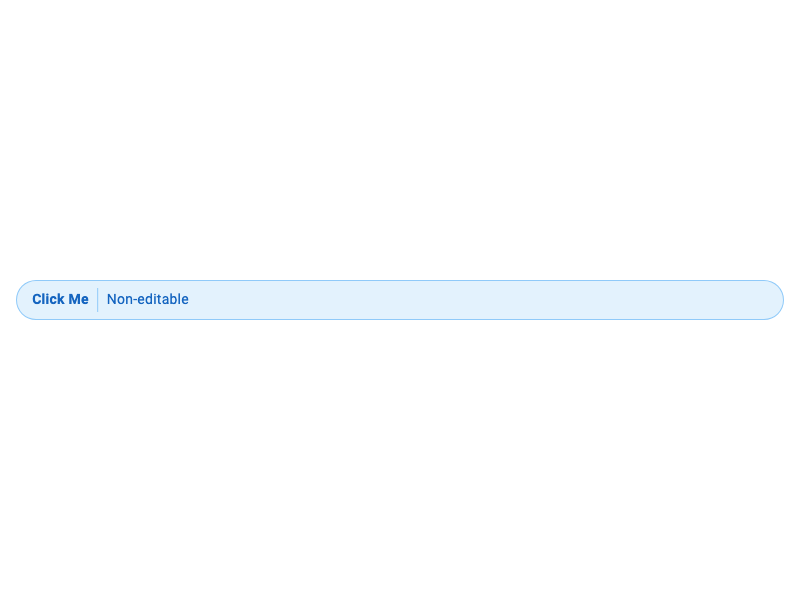
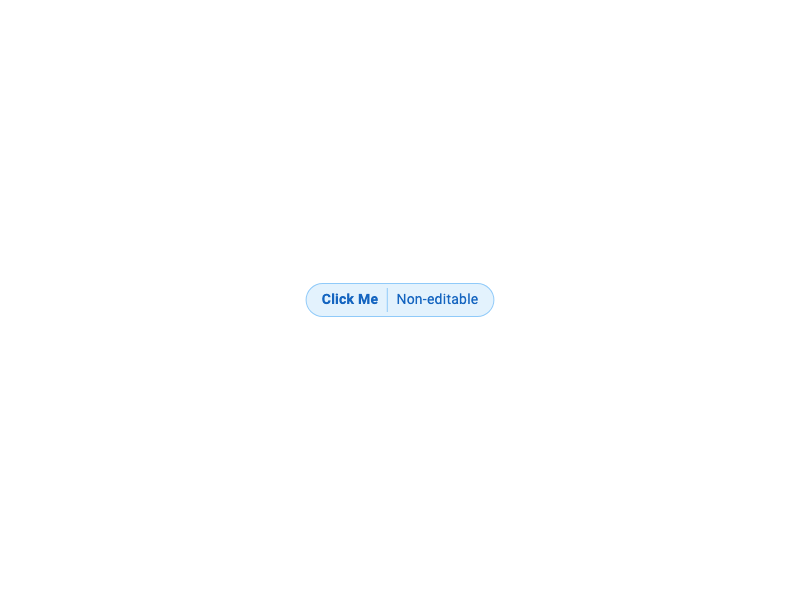
refactor: Make editable pill content-width in both display and edit modes
- Modified `_buildDisplayView` to remove `SizedBox` and `Align`, which were causing the pill to potentially expand unnecessarily. Now it uses `Text` directly inside `Flexible`.
    - Modified `_buildEditingView` to use `LayoutBuilder` and `TextPainter` to calculate the exact width required for the `TextField`, ensuring it is only as wide as its content (plus a cursor buffer).
    - Updated example and README to reflect the content-width behavior.

Changed region(s): [[0.0, 0.45, 1.0, 0.54]]

diff --git a/lib/pill.dart b/lib/pill.dart
@@ -455,17 +455,11 @@ class _PillState extends State<Pill> with SingleTickerProviderStateMixin {
                       style: valueTextStyle,
                       strutStyle: _valueStrutStyle,
                     )
-                  : SizedBox(
-                      height: _valueHeight,
-                      child: Align(
-                        alignment: Alignment.centerLeft,
-                        child: Text(
-                          widget.value!,
-                          style: valueTextStyle,
-                          strutStyle: _valueStrutStyle,
-                          overflow: TextOverflow.ellipsis,
-                        ),
-                      ),
+                  : Text(
+                      widget.value!,
+                      style: valueTextStyle,
+                      strutStyle: _valueStrutStyle,
+                      overflow: TextOverflow.ellipsis,
                     ),
             ),
           ),
@@ -507,32 +501,50 @@ class _PillState extends State<Pill> with SingleTickerProviderStateMixin {
             constraints: const BoxConstraints(minHeight: _valueHeight),
             child: Align(
               alignment: Alignment.centerLeft,
-              child: IntrinsicWidth(
-                child: TextField(
-                  controller: _textController,
-                  focusNode: _focusNode,
-                  autofocus: true,
-                  maxLines: 1,
-                  textAlignVertical: TextAlignVertical.center,
-                  decoration: const InputDecoration(
-                    isDense: true,
-                    isCollapsed: true,
-                    border: InputBorder.none,
-                    contentPadding: EdgeInsets.zero,
-                    constraints: BoxConstraints.tightFor(height: _valueHeight),
-                  ),
-                  style: valueTextStyle,
-                  strutStyle: _valueStrutStyle,
-                  cursorHeight: valueTextStyle.fontSize,
-                  cursorColor: _valueColor,
-                  onSubmitted: (newValue) {
-                    _commitEditingValue();
-                    setState(() {
-                      _isEditing = false;
-                    });
-                    _focusNode.unfocus();
-                  },
-                ),
+              child: LayoutBuilder(
+                builder: (context, constraints) {
+                  final textSpan = TextSpan(
+                    text: _textController.text,
+                    style: valueTextStyle,
+                  );
+                  final textPainter = TextPainter(
+                    text: textSpan,
+                    textDirection: Directionality.of(context),
+                    maxLines: 1,
+                  )..layout(minWidth: 0, maxWidth: constraints.maxWidth);
+
+                  // Add a small buffer for the cursor and to prevent jitter
+                  final textWidth = textPainter.width + 10.0;
+
+                  return SizedBox(
+                    width: textWidth,
+                    child: TextField(
+                      controller: _textController,
+                      focusNode: _focusNode,
+                      autofocus: true,
+                      maxLines: 1,
+                      textAlignVertical: TextAlignVertical.center,
+                      decoration: const InputDecoration(
+                        isDense: true,
+                        isCollapsed: true,
+                        border: InputBorder.none,
+                        contentPadding: EdgeInsets.zero,
+                        constraints: BoxConstraints.tightFor(height: _valueHeight),
+                      ),
+                      style: valueTextStyle,
+                      strutStyle: _valueStrutStyle,
+                      cursorHeight: valueTextStyle.fontSize,
+                      cursorColor: _valueColor,
+                      onSubmitted: (newValue) {
+                        _commitEditingValue();
+                        setState(() {
+                          _isEditing = false;
+                        });
+                        _focusNode.unfocus();
+                      },
+                    ),
+                  );
+                },
               ),
             ),
           ),

diff --git a/example/example.dart b/example/example.dart
@@ -84,7 +84,7 @@ class _PillWidgetExampleState extends State<PillWidgetExample> {
                   },
                 ),
                 Pill(
-                  label: 'Email',
+                  label: 'Email Address',
                   value: _email,
                   onValueChanged: (newValue) {
                     setState(() {

diff --git a/README.md b/README.md
@@ -9,6 +9,7 @@ A customizable pill/chip widget for Flutter with inline editing support and exte
 - **Comprehensive styling with `PillStyle`**
 - **8 predefined color presets via `PillStyles`**
 - **Read-only mode with `editable` parameter**
+- **Editable pills are content-width**
 - **Expandable mode for long text with `expandable` parameter**
 - **Tap handling with `onTap` callback**
 - Clean pill-shaped design
